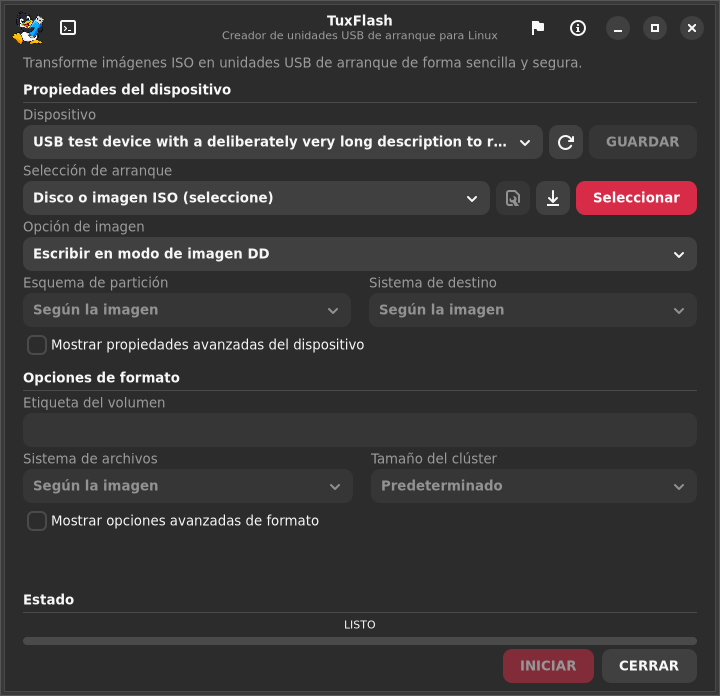
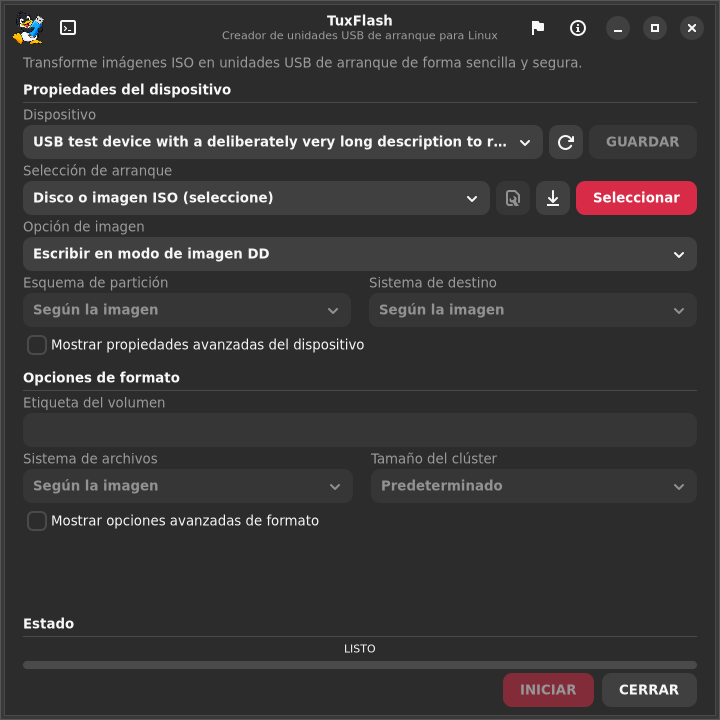
Document final window geometry and refreshed four-language layout validation

diff --git a/docs/validation/REVISAO-0.3.6.md b/docs/validation/REVISAO-0.3.6.md
@@ -19,6 +19,8 @@ o ícone e os quatro idiomas do projeto, sob GPL-3.0-or-later.
 
 O código publicado entre as candidatas foi conciliado antes do lançamento: lançador único, instalação do atalho com pré-validação, estado de cancelamento da interface e regressões adicionais foram preservados. O teste entre UIDs comprova o transporte até root; uma nova autenticação Polkit completa nesta revisão permanece fora do alcance desse ensaio.
 
+A validação no Ubuntu 24.04 identificou e corrigiu o argumento de caminho do Xvfb para o Meson 1.3 e uma falta de nove pixels no formulário chinês. A janela aproveita mais altura do monitor; o teste de encaixe foi mantido.
+
 ### Resultados reproduzíveis
 
 | Verificação | Resultado e alcance |
@@ -92,6 +94,8 @@ output synchronization and identity. Interrupted writes honor cancellation.
 Existing shared-backend target and system-disk protections remain in place.
 
 The intervening candidate changes were reconciled before release, preserving the unified launcher, safe shortcut preflight, cancellation-state UI and extra regressions. Cross-UID tests prove transport to root; a fresh complete Polkit authentication in this revision remains outside that test scope.
+
+Ubuntu 24.04 validation also identified and fixed the Xvfb path argument for Meson 1.3 and a nine-pixel Chinese-form overflow by allowing more monitor height, retaining the fit assertion.
 
 All **21 native suites**, **45 disposable-VM backend cases** and **24 GUI
 configurations** passed. Each GUI configuration covers basic and expanded forms:
